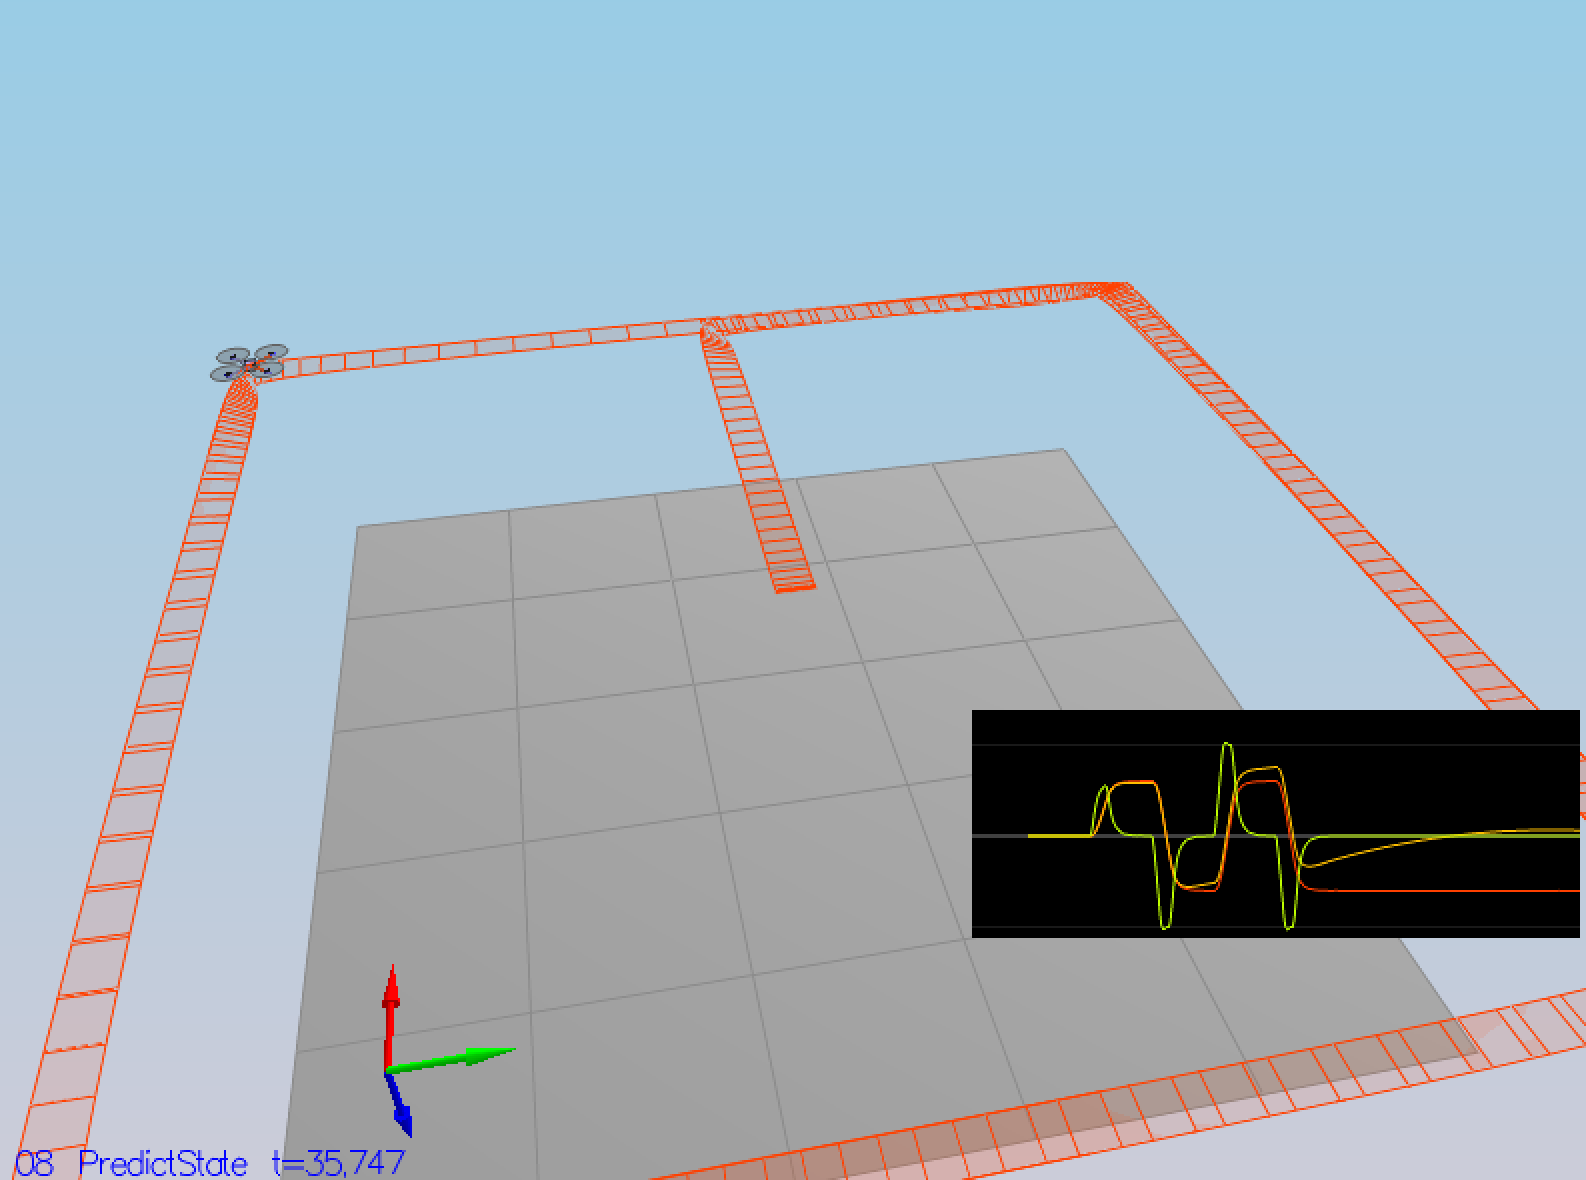
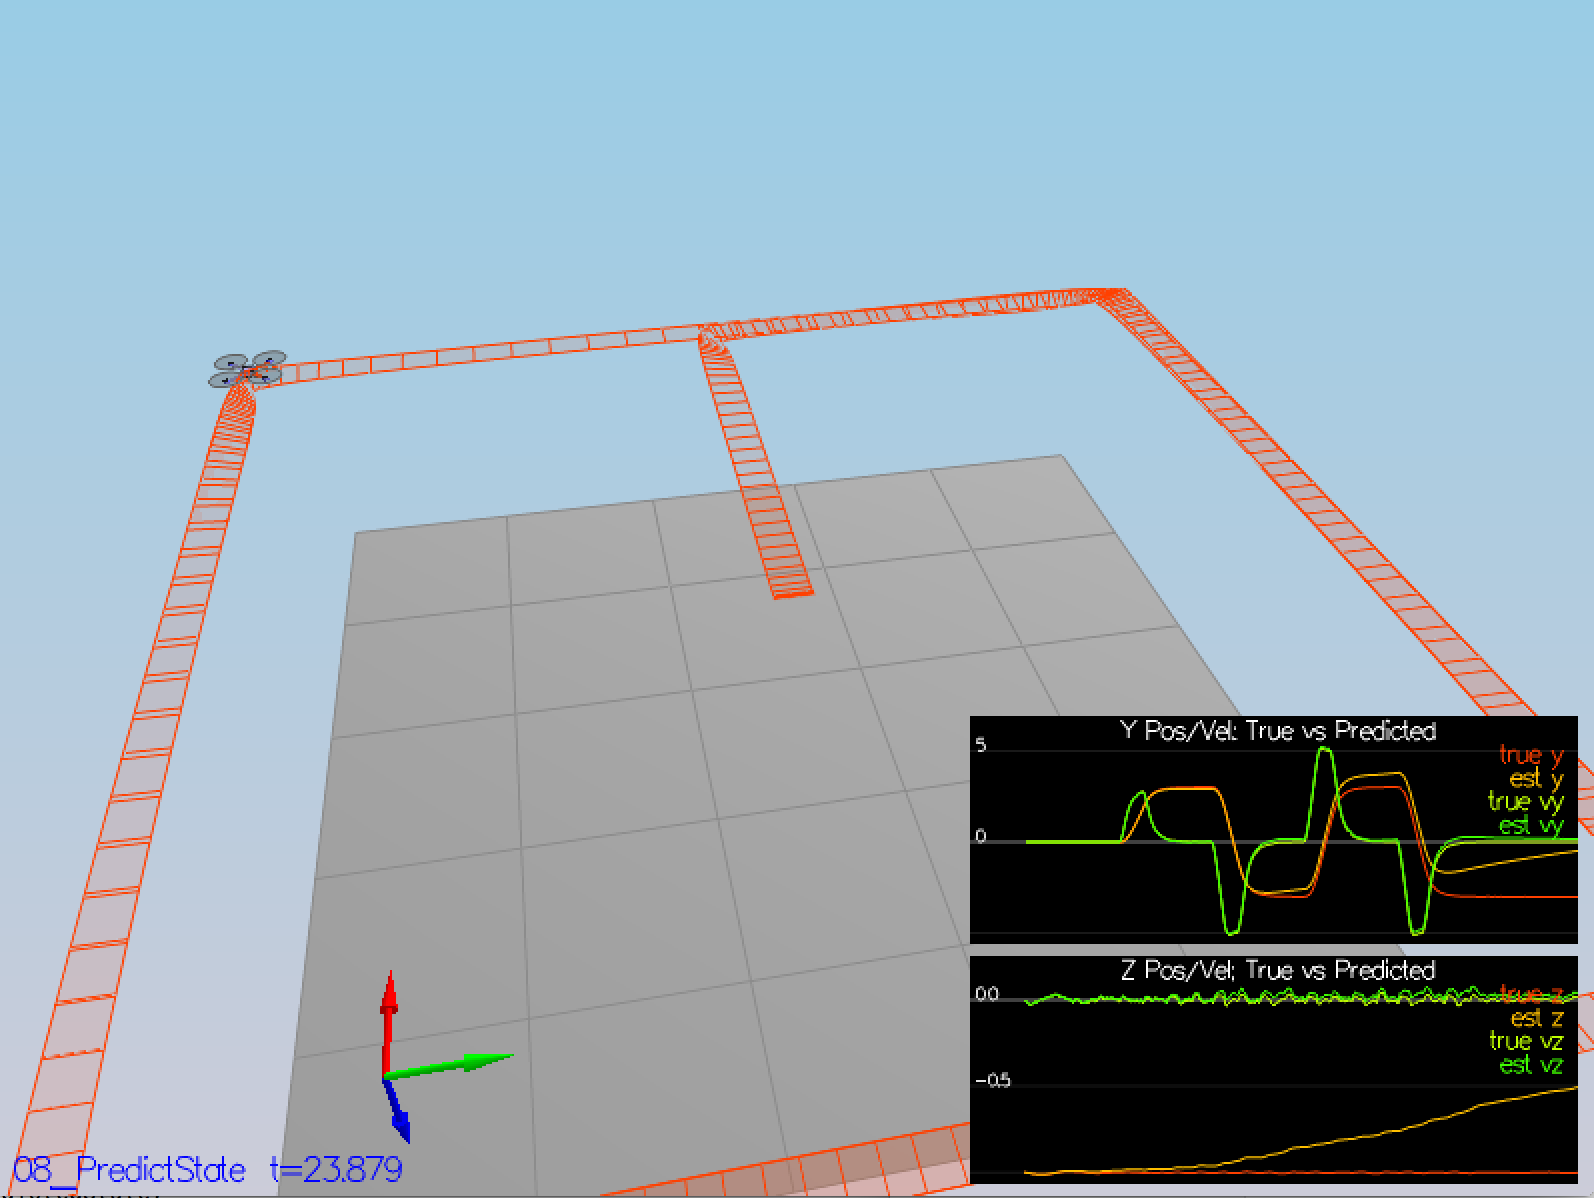
completed state transition

diff --git a/src/QuadEstimatorEKF.cpp b/src/QuadEstimatorEKF.cpp
@@ -207,6 +207,18 @@ MatrixXf QuadEstimatorEKF::GetRbgPrime(float roll, float pitch, float yaw)
 
   ////////////////////////////// BEGIN STUDENT CODE ///////////////////////////
 
+   float theta = roll;
+   float phi = pitch;
+   float psi = yaw;
+
+   RbgPrime(0,0) = -cos(theta)*sin(psi);
+   RbgPrime(0,1) = -sin(phi)*sin(theta)*sin(psi) - cos(phi)*cos(psi);
+   RbgPrime(0,2) = -cos(phi)*sin(theta)*sin(psi) + sin(phi)*cos(psi);
+   RbgPrime(1,0) = cos(theta)*cos(psi);
+   RbgPrime(1,1) = sin(phi)*sin(theta)*cos(psi) - cos(phi)*sin(psi);
+   RbgPrime(1,2) = cos(phi)*sin(theta)*cos(psi) + sin(phi)*sin(psi);
+
+
 
   /////////////////////////////// END STUDENT CODE ////////////////////////////
 
@@ -252,6 +264,16 @@ void QuadEstimatorEKF::Predict(float dt, V3F accel, V3F gyro)
   gPrime.setIdentity();
 
   ////////////////////////////// BEGIN STUDENT CODE ///////////////////////////
+    
+     gPrime(0,3) = dt;
+     gPrime(1,4) = dt;
+     gPrime(2,5) = dt;
+    
+     gPrime(3,6) = (RbgPrime(0) * accel).sum() * dt;
+     gPrime(4,6) = (RbgPrime(1) * accel).sum() * dt;
+     gPrime(5,6) = (RbgPrime(2) * accel).sum() * dt;
+    
+     ekfCov = gPrime * ekfCov * gPrime.transpose() + Q;
 
 
   /////////////////////////////// END STUDENT CODE ////////////////////////////

diff --git a/src/Math/Mat3x3F.h b/src/Math/Mat3x3F.h
@@ -184,7 +184,6 @@ public:
 		}
 		return ret;
 	}
-
 	float& operator()(unsigned char r, unsigned char c)
 	{
 		assert(r<3 && c<3);

diff --git a/README.md b/README.md
@@ -266,7 +266,17 @@ To implement this method, I passed in the current state, delta time, and the acc
 
 Scenario 8 produced the following output in the simulator:
 
-![UpdateIMU](./animations/Predict.png)
+![prediction](./animations/Predict.png)
+
+### Jacobians and Transition Function ###
+
+In Scenario 9, the covariances of multiple drones are measured.  Before implementing the Transition function that updates the Covariance with each predict step, the predictions were stagnant, as can be seen by the outer white lines in each graph below:
+
+![stagnantCov](./animations/predict_cov_noisy.png)
+
+After implementing the transition function `Predict()` which utilizes the Rotation Matrix from the body frame to the world frame, the covariances updates to look like this:
+
+![updatingCov](./animations/covariance_predicted.png)
 
 
 ## Authors ##
